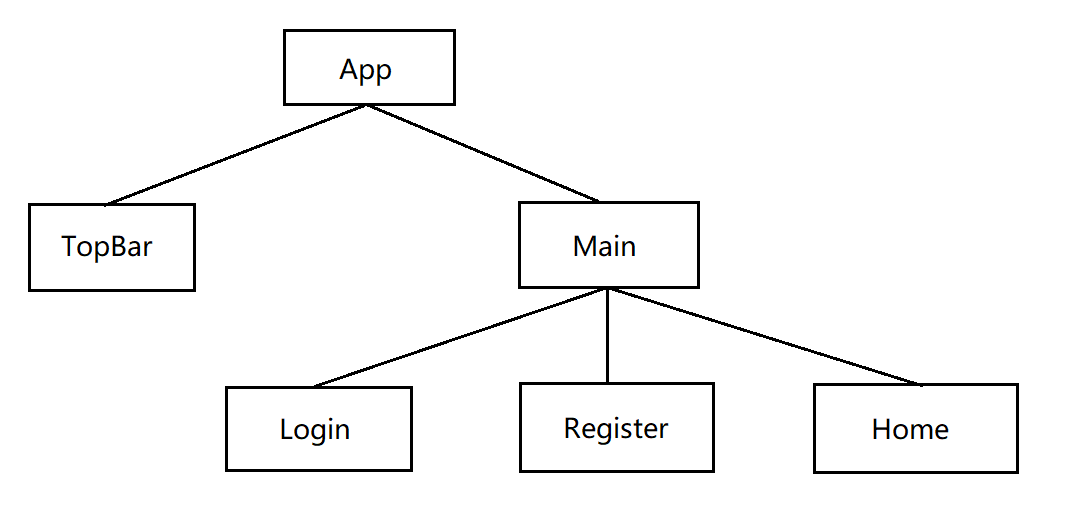
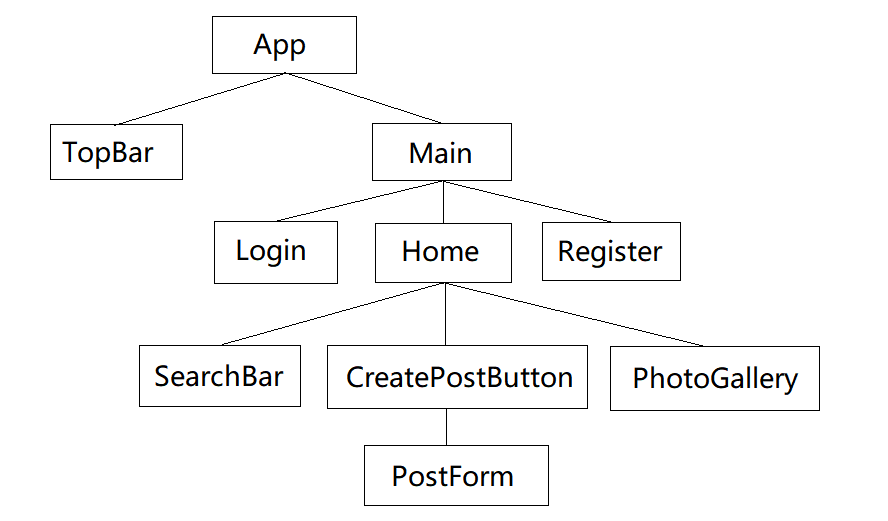
Added PostForm Component and CreatePostButton Component. Updated Home Component with showPostAfterUpload function. Updated PhotoGallery component to add delete function.

diff --git a/src/components/CreatePostButton.js b/src/components/CreatePostButton.js
@@ -1,31 +1,85 @@
-import {useState} from "react";
-import {Button, Modal} from "antd";
+import {useRef, useState} from "react";
+import {Button, Modal, message} from "antd";
+import {PostForm} from "./PostForm";
+import axios from "axios";
+import {BASE_URL, TOKEN_KEY} from "../constants";
 
+function CreatePostButton(props) {
+    const {showPostAfterUpload} = props;
+    const uploadForm = useRef();
 
-function CreatePostButton() {
-    const [isModalVisible, setIsModalVisible] = useState(false);
+    const [isVisible, setIsVisible] = useState(false);
+    const [isLoading, setIsLoading] = useState(false);
 
     const showModal = () => {
-        setIsModalVisible(true);
+        setIsVisible(true);
     };
 
-    const handleOk = () => {
-        setIsModalVisible(false);
+    const handleUpload = () => {
+        setIsLoading(true);
+        console.log(uploadForm.current)
+        //select the PostForm and find validate fields of the form
+        uploadForm.current
+            .validateFields()
+            .then((form) => {
+                const {description, postUploaded} = form;
+                //only upload the first file if multiple files are selected
+                const {type, originFileObj} = postUploaded[0];
+                const postType = type.match(/^(image|video)/g)[0];
+                if (postType) {
+                    let formData = new FormData();
+                    formData.append("message", description);
+                    formData.append("media_file", originFileObj);
+
+                    const opt = {
+                        method: "POST",
+                        url: `${BASE_URL}/upload`,
+                        headers: {
+                            Authorization: `Bearer ${localStorage.getItem(TOKEN_KEY)}`
+                        },
+                        data: formData
+                    };
+
+                    axios(opt)
+                        .then((res) => {
+                            if (res.status === 200) {
+                                message.success("The image/video is uploaded!");
+                                uploadForm.current.resetFields();
+                                handleCancel();
+                                showPostAfterUpload(postType);
+                            }
+                        })
+                        .catch((err) => {
+                            console.log("Upload image/video failed: ", err.message);
+                            message.error("Failed to upload image/video!");
+                        }).finally(()=> {
+                            setIsLoading(false);
+                    });
+                }
+            })
+            .catch((err) => {
+                console.log("err in validate form -> ", err);
+            });
     };
 
     const handleCancel = () => {
-        setIsModalVisible(false);
+        setIsVisible(false);
     };
 
     return (
         <>
             <Button type="primary" onClick={showModal}>
-                Open Modal
+                Create New Post
             </Button>
-            <Modal title="Upload New Post" visible={isModalVisible} onOk={handleOk} onCancel={handleCancel}>
-                <p>Some contents...</p>
-                <p>Some contents...</p>
-                <p>Some contents...</p>
+            <Modal
+                title="Create New Post"
+                visible={isVisible}
+                onOk={handleUpload}
+                okText="Create"
+                onCancel={handleCancel}
+                confirmLoading={isLoading}
+            >
+                <PostForm ref={uploadForm}/>
             </Modal>
         </>
     )

diff --git a/src/components/PhotoGallery.js b/src/components/PhotoGallery.js
@@ -1,7 +1,11 @@
-import React from 'react';
+import React, {useState} from 'react';
 import PropTypes from 'prop-types';
 
 import Gallery from 'react-grid-gallery';
+import axios from "axios";
+import {BASE_URL, TOKEN_KEY} from "../constants";
+import {Button, message} from "antd";
+import {DeleteOutlined} from "@ant-design/icons";
 
 const captionStyle = {
     backgroundColor: "rgba(0, 0, 0, 0.6)",
@@ -24,7 +28,9 @@ const wrapperStyle = {
 };
 
 function PhotoGallery(props) {
-    const { images } = props;
+    const [images, setImages] = useState(props.images);
+    const [curImgIdx, setCurImgIdx] = useState(0);
+
     const imagaArr = images.map( image => {
         return {
             ...image,
@@ -36,15 +42,55 @@ function PhotoGallery(props) {
         }
     });
 
+    const onCurrentImageChange = (index) => {
+        setCurImgIdx(index)
+    }
+
+    const onDeleteImage = () => {
+        if (window.confirm(`Are you sure you want to delete this image?`)){
+            const curImg = images[curImgIdx];
+            const newImageArr = images.filter((img, index) => index !== curImgIdx);
+            const opt = {
+                method: 'DELETE',
+                url: `${BASE_URL}/post/${curImg.postId}`,
+                headers: {
+                    'Authorization': `Bearer ${localStorage.getItem(TOKEN_KEY)}`
+                }
+            };
+
+            axios(opt)
+                .then((res) => {
+                    console.log('delete result -> ', res);
+                    if(res.status === 200) {
+                        setImages(newImageArr);
+                    }
+                })
+                .catch( err => {
+                    message.error('Fetch posts failed!');
+                    console.log('fetch posts failed: ', err.message);
+                });
+        }
+    }
+
+
     return (
         <div style={wrapperStyle}>
             <Gallery
                 images={imagaArr}
                 enableImageSelection={false}
                 backdropClosesModal={true}
+                currentImageWillChange={onCurrentImageChange}
+                customControls={[
+                    <Button style={{marginTop: "10px", marginLeft: "5px"}}
+                            key="deleteImage"
+                            type="primary"
+                            icon={<DeleteOutlined />}
+                            size="small"
+                            onClick={onDeleteImage}
+                    >Delete Image</Button>
+                ]}
             />
         </div>
-
     );
 }
 

diff --git a/src/components/PostForm.js b/src/components/PostForm.js
@@ -1,0 +1,62 @@
+import React from "react";
+import {InboxOutlined} from "@ant-design/icons";
+import {Form, Input, Upload} from 'antd';
+
+const {Dragger} = Upload;
+
+const formItemLayout = {
+    labelCol: {span: 4},
+    wrapperCol: {span: 16}
+};
+
+const normFile = (e) => {
+    console.log("Upload event:", e);
+    return e && e.fileList;
+};
+
+export const PostForm = React.forwardRef((props, ref) => {
+
+    return (
+        <Form
+            {...formItemLayout}
+            ref={ref}
+        >
+            <Form.Item
+                name="description"
+                label="Message:"
+                rules={[
+                    {
+                        required: true,
+                        message: "Please input your message!"
+                    }
+                ]}
+            >
+                <Input/>
+            </Form.Item>
+
+            <Form.Item
+                label="Dragger:"
+                name="postUploaded"
+                getValueFromEvent={normFile}
+                rules={[
+                    {
+                        required: true,
+                        message: "Please select an image/video!"
+                    }
+                ]}
+            >
+                <Dragger
+                    // Prevent upload behavior when return false or reject promise, the prevented file would still show in file list
+                    beforeUpload={() => false}
+                >
+                    <p className="ant-upload-drag-icon">
+                        <InboxOutlined/>
+                    </p>
+                    <p className="ant-upload-text">Click or drag file to this area to upload</p>
+                </Dragger>
+            </Form.Item>
+
+        </Form>
+
+    )
+});

diff --git a/src/components/Home.js b/src/components/Home.js
@@ -1,6 +1,6 @@
 import React, {useEffect, useState} from "react";
 import SearchBar from "./SearchBar";
-import {Tabs, message, Button, Row, Col} from "antd";
+import {Tabs, message, Row, Col} from "antd";
 import {BASE_URL, SEARCH_KEY, TOKEN_KEY} from "../constants";
 import axios from "axios";
 import PhotoGallery from "./PhotoGallery";
@@ -9,7 +9,7 @@ import CreatePostButton from "./CreatePostButton";
 const {TabPane} = Tabs
 
 //The home page after login. It displays the search results based on the search option and selections.
-function Home(props) {
+function Home() {
     const [posts, setPost] = useState([]);
     const [activeTab, setActiveTab] = useState("image");
     const [searching, setSearching] = useState(false);
@@ -104,13 +104,14 @@ function Home(props) {
     }
 
     //after upload new post, automatically show all the posts for the uploaded type
-    const showPostAfterUpload = (type) => {
-        setActiveTab(type);
+    const showPostAfterUpload = (postType) => {
+        setActiveTab(postType);
 
         setTimeout(() => {
             setSearchOption({type: SEARCH_KEY.all, keyword: ""});
         }, 3000);
     }
+
     const operations = <CreatePostButton showPostAfterUpload={showPostAfterUpload}/>
 
     return (

diff --git a/src/components/SearchBar.js b/src/components/SearchBar.js
@@ -2,7 +2,6 @@ import {Input, Radio} from "antd"
 import {useState} from "react";
 import {SEARCH_KEY} from "../constants";
 
-
 const {Search} = Input
 
 //This component collects user search keywords and search type and triggers fetch data from backend.
@@ -54,7 +53,6 @@ function SearchBar({handleSearch, searching}) {
                 <Radio value={SEARCH_KEY.user}>user</Radio>
             </Radio.Group>
         </>
-
     );
 }
 

diff --git a/README.md b/README.md
@@ -1,4 +1,10 @@
-# Getting Started with Create React App
+# SocialNetwork-Frontend
+
+## **Project Description**
+A social network web application that allows user to upload, search and delete posts. This repository only includes the frontend portion of the project. Backend please refer to <https://github.com/nanjiamoomoo/socialnetwork-go>
+
+## **Framework**
+This project was bootstrapped with [Create React App](https://github.com/facebook/create-react-app).
 
 ## Components
 See image below for components structure
@@ -6,22 +12,24 @@ See image below for components structure
 
 **_`App.js`_** Parent component of TopBar and Main
 
-**_`TopBar.js`_** TopBar of the page
+**_`TopBar.js`_** Defines the bar on top of the page
 
 **_`Main.js`_** Main component controls the page navigation between Login, Register and Home components based on loggedIn status and url
 
-**_`Login`_** Used for collecting user login info and executing a login request
+**_`Login`_** Collects user login info and executing a login request
 
-**_`Register`_** Used for new user registration.
+**_`Register`_** New user registration.
 
 **_`Home`_** The home page after login
 
-**_`SearchBar`_** Used for triggering search to fetch posts from backend. This component collects user search keywords and search type.
+**_`SearchBar`_** Search to fetch posts from backend. This component collects user search keywords and search type.
 
-**_`PhotoGallery`_** Used for display images fetched.
+**_`PhotoGallery`_** Display images fetched.
 
-## **Framework**
-This project was bootstrapped with [Create React App](https://github.com/facebook/create-react-app).
+**_`CreatePostButton`_** Create new post and upload to the backend.
+
+**_`PostForm`_** Form to collect user input message and uploaded file
+
 
 ## Available Scripts
 
